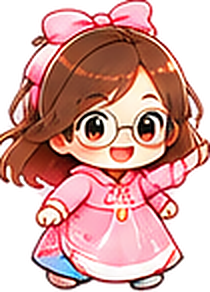
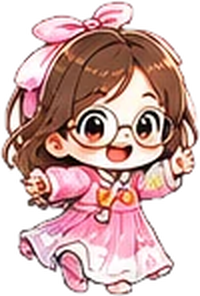
코스튬 26종·기본 옷 누끼 다시 따기 (기획 이미지 기준)

diff --git a/shop/index.html b/shop/index.html
@@ -14,13 +14,13 @@
 <link rel="preconnect" href="https://fonts.googleapis.com">
 <link rel="preconnect" href="https://fonts.gstatic.com" crossorigin>
 <link href="https://fonts.googleapis.com/css2?family=Jua&display=swap" rel="stylesheet">
-<link rel="stylesheet" href="shop.css?v=20261023b">
+<link rel="stylesheet" href="shop.css?v=20261023c">
 </head>
 <body>
 <header class="topbar">
   <a class="brand" href="../index.html#lobby"><span class="home">🏠</span><span>트윈 게임랜드</span></a>
   <div class="me">
-    <div class="coin-pill"><img src="assets/v2/coin.png?v=20261023b" alt=""><b id="myCoins">0</b></div>
+    <div class="coin-pill"><img src="assets/v2/coin.png?v=20261023c" alt=""><b id="myCoins">0</b></div>
     <img id="myFace" class="face" alt="">
   </div>
 </header>
@@ -28,7 +28,7 @@
 <div class="layout">
   <main>
     <section class="banner">
-      <img src="assets/v2/banner.jpg?v=20261023b" alt="아이템 샵 — 게임을 더 재미있게! 나만의 스타일로 꾸며보세요!">
+      <img src="assets/v2/banner.jpg?v=20261023c" alt="아이템 샵 — 게임을 더 재미있게! 나만의 스타일로 꾸며보세요!">
     </section>
 
     <!-- 캐릭터 꾸미기 입구 -->
@@ -80,7 +80,7 @@
   <header class="dress-top">
     <button id="dressClose" class="dclose" aria-label="닫기">✕</button>
     <b>캐릭터 꾸미기</b>
-    <div class="coin-pill small"><img src="assets/v2/coin.png?v=20261023b" alt=""><b id="dressCoins">0</b></div>
+    <div class="coin-pill small"><img src="assets/v2/coin.png?v=20261023c" alt=""><b id="dressCoins">0</b></div>
   </header>
   <div class="dress-body">
     <div id="dressWho" class="dress-who"></div>
@@ -130,7 +130,7 @@
 </div>
 <div id="toast" class="toast hidden"></div>
 
-<script src="../common/profile.js?v=20261023b"></script>
-<script src="shop.js?v=20261023b"></script>
+<script src="../common/profile.js?v=20261023c"></script>
+<script src="shop.js?v=20261023c"></script>
 </body>
 </html>

diff --git a/shisen/index.html b/shisen/index.html
@@ -15,7 +15,7 @@
 <link rel="preconnect" href="https://fonts.googleapis.com">
 <link rel="preconnect" href="https://fonts.gstatic.com" crossorigin>
 <link href="https://fonts.googleapis.com/css2?family=Jua&display=swap" rel="stylesheet">
-<link rel="stylesheet" href="style.css?v=20261023a">
+<link rel="stylesheet" href="style.css?v=20261023c">
 </head>
 <body>
 <div id="safe"></div>
@@ -46,7 +46,7 @@
   <!-- READY -->
   <div id="ready" class="screen hidden">
     <div class="panel">
-      <img class="logo" src="assets/logo.png?v=20261023a" alt="은유와 은결의 사천성">
+      <img class="logo" src="assets/logo.png?v=20261023c" alt="은유와 은결의 사천성">
       <div class="p-title" id="readyTitle">1-1 꽃 정원 1</div>
       <div class="p-text">같은 그림 2개를 선으로 이어요.<br>선은 <b>2번까지 꺾을 수 있고</b>, 다른 타일은 지나갈 수 없어요.</div>
       <div class="p-sub" id="readyInfo">타일 24개 · 제한 시간 2:30</div>
@@ -88,9 +88,9 @@
 
   <div id="toast" class="toast hidden"></div>
 </div>
-<script src="../common/profile.js?v=20261023a"></script>
-<script src="../common/skins.js?v=20261023a"></script>
-<script src="../common/costume.js?v=20261023a"></script>
-<script src="game.js?v=20261023a"></script>
+<script src="../common/profile.js?v=20261023c"></script>
+<script src="../common/skins.js?v=20261023c"></script>
+<script src="../common/costume.js?v=20261023c"></script>
+<script src="game.js?v=20261023c"></script>
 </body>
 </html>

diff --git a/stairs/index.html b/stairs/index.html
@@ -15,7 +15,7 @@
 <link rel="preconnect" href="https://fonts.googleapis.com">
 <link rel="preconnect" href="https://fonts.gstatic.com" crossorigin>
 <link href="https://fonts.googleapis.com/css2?family=Jua&display=swap" rel="stylesheet">
-<link rel="stylesheet" href="style.css?v=20261023a">
+<link rel="stylesheet" href="style.css?v=20261023c">
 </head>
 <body>
 <div id="safe"></div>
@@ -43,7 +43,7 @@
 
   <!-- HOME (단독 실행일 때) -->
   <div id="home" class="screen">
-    <img class="logo" src="assets/logo.png?v=20261023a" alt="은유와 은결의 계단 오르기">
+    <img class="logo" src="assets/logo.png?v=20261023c" alt="은유와 은결의 계단 오르기">
     <div class="home-art"><img src="assets/keyart.jpg" alt=""></div>
     <div class="label">누구랑 오를까?</div>
     <div class="chars">
@@ -95,9 +95,9 @@
 
   <div id="rotateHint" class="hidden">📱 세로로 세워서 하면 더 크게 보여요</div>
 </div>
-<script src="../common/profile.js?v=20261023a"></script>
-<script src="../common/costume.js?v=20261023a"></script>
-<script src="../common/skins.js?v=20261023a"></script>
-<script src="game.js?v=20261023a"></script>
+<script src="../common/profile.js?v=20261023c"></script>
+<script src="../common/costume.js?v=20261023c"></script>
+<script src="../common/skins.js?v=20261023c"></script>
+<script src="game.js?v=20261023c"></script>
 </body>
 </html>

diff --git a/shop/shop.js b/shop/shop.js
@@ -4,7 +4,7 @@
 //  · 게임 카드(스크롤해도 고정)로 게임을 고르면 그 게임의 게임 부스트 / 보유 아이템이 보임
 //  · 게임 부스트: 1개씩 사서 모음. 수량은 구매·게임 보상·게임에서 사용 모두 같은 숫자(common/profile.js)
 const $ = (id) => document.getElementById(id);
-const V = '?v=20261023b'; // bump when images change so phones don't show old cached ones
+const V = '?v=20261023c'; // bump when images change so phones don't show old cached ones
 if (!window.Hub || !Hub.active()) location.replace('../index.html');
 
 const GAMES = [
@@ -146,7 +146,7 @@ function renderOwned() {
 }
 // ---------- 캐릭터 꾸미기 ----------
 const COS_IMG = (look, id) => (id ? `../common/costumes/${look}_${id}.png${V}` : `../skyhook/assets/${look === 'eungyeol' ? 'eungyeol' : 'eunyu'}_base.jpg`);
-const BASE_FULL = (look) => `../stairs/assets/${look}_idle.png${V}`; // 기본 옷 전신 그림
+const BASE_FULL = (look) => `../common/costumes/${look}_base.png${V}`; // 기본 옷 전신 그림
 const faceOf = (c) => Hub.costumeImg(c, '../') || `../skyhook/assets/${c.look}_base.jpg`;
 const fullOf = (look, id) => (id ? COS_IMG(look, id) : BASE_FULL(look));
 const DRESS_LIST = [{ id: null, name: '기본 옷', price: 0, desc: '처음 입고 있던 옷이에요' }, ...Hub.COSTUMES];

diff --git a/skyhook/index.html b/skyhook/index.html
@@ -15,7 +15,7 @@
 <link rel="preconnect" href="https://fonts.googleapis.com">
 <link rel="preconnect" href="https://fonts.gstatic.com" crossorigin>
 <link href="https://fonts.googleapis.com/css2?family=Jua&display=swap" rel="stylesheet">
-<link rel="stylesheet" href="style.css?v=20261023a">
+<link rel="stylesheet" href="style.css?v=20261023c">
 </head>
 <body>
 <div id="safe"></div>
@@ -113,9 +113,9 @@
 
   <div id="rotateHint" class="hidden">가로로 돌리면 더 크게 볼 수 있어요 ↻</div>
 </div>
-<script src="../common/profile.js?v=20261023a"></script>
-<script src="../common/costume.js?v=20261023a"></script>
-<script src="../common/skins.js?v=20261023a"></script>
-<script src="game.js?v=20261023a"></script>
+<script src="../common/profile.js?v=20261023c"></script>
+<script src="../common/costume.js?v=20261023c"></script>
+<script src="../common/skins.js?v=20261023c"></script>
+<script src="game.js?v=20261023c"></script>
 </body>
 </html>

diff --git a/helicopter/index.html b/helicopter/index.html
@@ -15,7 +15,7 @@
 <link rel="preconnect" href="https://fonts.googleapis.com">
 <link rel="preconnect" href="https://fonts.gstatic.com" crossorigin>
 <link href="https://fonts.googleapis.com/css2?family=Jua&display=swap" rel="stylesheet">
-<link rel="stylesheet" href="style.css?v=20261023a">
+<link rel="stylesheet" href="style.css?v=20261023c">
 </head>
 <body>
 <div id="safe"></div>
@@ -91,9 +91,9 @@
 
   <div id="rotateHint" class="hidden">가로로 돌리면 더 크게 볼 수 있어요 ↻</div>
 </div>
-<script src="../common/profile.js?v=20261023a"></script>
-<script src="../common/costume.js?v=20261023a"></script>
-<script src="../common/skins.js?v=20261023a"></script>
-<script src="game.js?v=20261023a"></script>
+<script src="../common/profile.js?v=20261023c"></script>
+<script src="../common/costume.js?v=20261023c"></script>
+<script src="../common/skins.js?v=20261023c"></script>
+<script src="game.js?v=20261023c"></script>
 </body>
 </html>

diff --git a/common/profile.js b/common/profile.js
@@ -151,7 +151,7 @@
     ownsCostume(id, c = this.active()) { return !!(c && (c.costumes || []).includes(id)); },
     costume(c = this.active()) { return (c && c.costume) || null; }, // 입은 옷 id (없으면 기본 옷)
     // 게임·메뉴에서 쓸 그림 경로 (기본 옷이면 null). base: 페이지 위치에 따라 '../' 등
-    costumeImg(c = this.active(), base = '') { const id = this.costume(c); return id ? `${base}common/costumes/${c.look}_${id}.png?v=20261023a` : null; },
+    costumeImg(c = this.active(), base = '') { const id = this.costume(c); return id ? `${base}common/costumes/${c.look}_${id}.png?v=20261023c` : null; },
     buyCostume(id, c = this.active()) {
       const it = COSTUMES.find((x) => x.id === id);
       if (!c || !it || this.ownsCostume(id, c)) return { ok: false };

diff --git a/common/costume.js b/common/costume.js
@@ -11,9 +11,11 @@
   let ok = false;
   if (src) { img.onload = () => { ok = true; }; img.src = src; }
   // 달리기 프레임: 두 장 다 불러와야 쓴다 (없으면 큰 그림으로 대신)
+  // 큰 그림과 색이 달라서 달리기 프레임을 안 쓰는 옷
+  const NO_RUN = ['eunyu_dino', 'eungyeol_raincoat'];
   const run = [new Image(), new Image()];
   let runOk = 0;
-  if (src) run.forEach((im, i) => { im.onload = () => { runOk++; }; im.src = src.replace(/\.png/, `_run${i}.png`); });
+  if (src && !NO_RUN.some((k) => src.includes(`/${k}.png`))) run.forEach((im, i) => { im.onload = () => { runOk++; }; im.src = src.replace(/\.png/, `_run${i}.png`); });
 
   const Costume = {
     id: c ? Hub.costume(c) : null,

diff --git a/index.html b/index.html
@@ -15,7 +15,7 @@
 <link rel="preconnect" href="https://fonts.googleapis.com">
 <link rel="preconnect" href="https://fonts.gstatic.com" crossorigin>
 <link href="https://fonts.googleapis.com/css2?family=Jua&display=swap" rel="stylesheet">
-<link rel="stylesheet" href="hub/hub.css?v=20261023a">
+<link rel="stylesheet" href="hub/hub.css?v=20261023c">
 </head>
 <body>
 <div id="safe"></div>
@@ -131,7 +131,7 @@
 
   <div id="toast" class="toast hidden"></div>
 </div>
-<script src="common/profile.js?v=20261023a"></script>
-<script src="hub/hub.js?v=20261023a"></script>
+<script src="common/profile.js?v=20261023c"></script>
+<script src="hub/hub.js?v=20261023c"></script>
 </body>
 </html>
